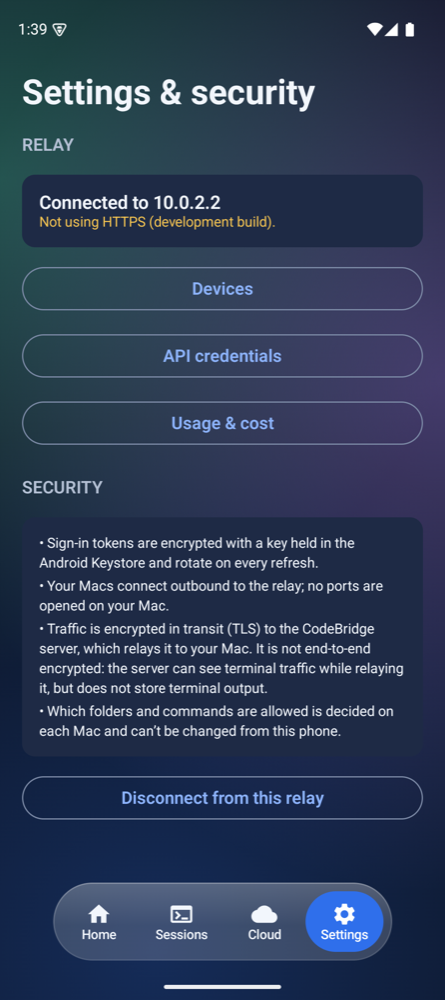
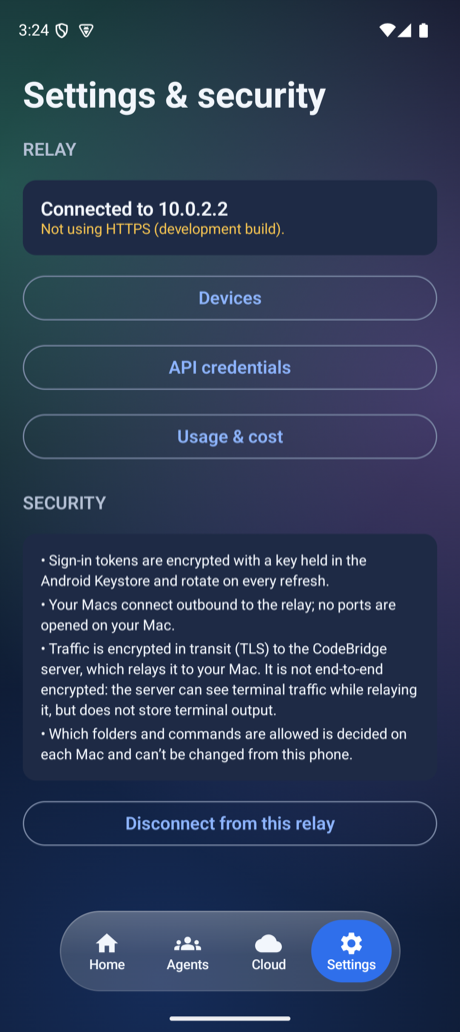
README: document the new features, drop what is no longer true
Adds Agents, approvals, chat images, Continue, folders and external drives, a how-to table, the full list of owner switches, and the new Claude Code permission flow. Retakes the Home and Settings screenshots (they showed the old Sessions tab), adds the Continue screenshot, and removes unused welcome screenshots. Corrects 'your code never leaves your computer' to say what the phone does receive, and moves the external-drive section out of 'Under the hood'.

diff --git a/README.md b/README.md
@@ -13,10 +13,10 @@ No account. No server to rent. Scan a QR code and you're connected.
 
 <br />
 
-<img src="docs/screenshots/ios-welcome.png" width="23%" alt="iOS welcome screen" />
-<img src="docs/screenshots/ios-home.png" width="23%" alt="iOS home with a computer online" />
-<img src="docs/screenshots/android-welcome-dark.png" width="23%" alt="Android welcome screen, dark" />
-<img src="docs/screenshots/android-home-dark.png" width="23%" alt="Android home with a computer online, dark" />
+<img src="docs/screenshots/ios-agents.png" width="23%" alt="iOS Agents tab showing which Claude Code sessions need you" />
+<img src="docs/screenshots/ios-approve.png" width="23%" alt="iOS approval card with the exact command" />
+<img src="docs/screenshots/ios-chat.png" width="23%" alt="iOS chat with a file edit shown as red and green lines" />
+<img src="docs/screenshots/android-agents-dark.png" width="23%" alt="Android Agents tab, dark" />
 
 </div>
 
@@ -24,11 +24,15 @@ No account. No server to rent. Scan a QR code and you're connected.
 
 ## What it is
 
-CodeBridge puts a terminal, git and **Claude Code** for your own computer in your pocket. Start a session on your Mac or Windows PC, watch the output live, approve risky commands from your phone, and walk away.
+CodeBridge puts **Claude Code**, a terminal and git for your own computer in your pocket. Start a session on your Mac or Windows PC, watch it work, approve the commands it asks about, and walk away.
 
-- **Your code never leaves your computer.** Commands run on your machine, inside folders you approved on that machine. Optional cloud sessions run in an isolated Anthropic sandbox and are always labelled as such.
-- **You run your own relay.** There is nothing for anyone to host for you and no account to create. The QR code your relay shows is the whole sign-in.
-- **Run several agents.** The Agents tab shows every session, which need you, and lets you approve, cancel or start more.
+- **Several agents at once.** The **Agents** tab shows every Claude Code session across your computers, which ones need you, and lets you cancel, stop or start more. Subagents Claude starts show as their own cards.
+- **Approve from your phone.** Anything Claude Code is not allowed to run on its own appears as an **Approve / Reject** card with the exact command. Nothing runs until you tap Approve.
+- **A real Claude Code chat.** Replies, tool calls, file edits as red and green lines, and screenshots from your project all show in the conversation.
+- **Pick up where you left off.** **Continue** lists the Claude Code conversations already saved on your computer, including ones you started in a terminal, and resumes one from the phone, in place or as a copy.
+- **Any project, even on an external drive.** Add an existing folder, start a new one, or choose where new projects go.
+- **Your code stays on your computer.** Commands run on your machine, inside folders you approved there. Your phone only receives what you ask to see: output, diffs and images, sent through your own relay. Optional cloud sessions run in an isolated Anthropic sandbox and are always labelled.
+- **No account, no server to rent.** You run your own relay, and the QR code it shows is the whole sign-in.
 - **Your Claude plan works.** Claude Code runs on your computer with its own login, so sessions use your own Claude subscription. CodeBridge never sees that login.
 
 ## Get started
@@ -37,7 +41,7 @@ You need three things: a relay (the small program that links phone and computer)
 
 ### 1. Start your relay and connect your computer
 
-On the computer you want to control (Node.js 22+):
+On the computer you want to control (Node.js 22+, and Claude Code installed if you want Claude sessions):
 
 ```bash
 npx -y codebridge-relay start --tunnel cloudflare --with-agent
@@ -49,7 +53,12 @@ This starts the relay, opens a free secure public address through Cloudflare (in
 npx -y codebridge-relay fly --with-agent
 ```
 
-The app has a **Set up a relay** screen with both commands, a Copy button and a _Send to my computer_ button.
+The app has a **Set up a relay** screen with both commands, a Copy button and a _Send to my computer_ button. To keep the agent running after you close the terminal, install it and start it at login:
+
+```bash
+npm install -g codebridge-agent
+codebridge-agent service install        # LaunchAgent on macOS, scheduled task on Windows
+```
 
 ### 2. Install the app and scan
 
@@ -66,13 +75,19 @@ The app has a **Set up a relay** screen with both commands, a Copy button and a 
 
 Open the app, tap **Scan QR code**, scan the code from step 1, confirm the relay, done. Your computer shows up as **Online**.
 
-### 3. Run a session
+### 3. Work from your phone
 
-Choose your computer, then tap **Add existing folder** to browse your computer's home folder and pick a project that is already there, or tap **New project** to start a fresh one (a new folder on your computer, optionally with `git init`), then start a terminal or Claude Code session. Add more computers any time from **Add a computer**.
+| To do this                           | Do this                                                                                                                     |
+| ------------------------------------ | --------------------------------------------------------------------------------------------------------------------------- |
+| Start Claude Code on a project       | Home → your computer → a project → **New session** → _Claude Code_                                                          |
+| Pick up an earlier conversation      | On a project, tap **Continue**, choose a conversation, then _Continue_ or _Continue as a copy_                              |
+| Work on a folder that already exists | Your computer → **Add existing folder**, browse and choose **Use this folder**                                              |
+| Start a brand-new project            | Your computer → **New project**, type a name (optionally with `git init`). **Change default folder** picks where it goes    |
+| See everything that is running       | The **Agents** tab: _Needs you_, _Working_, _Idle_. Swipe or tap to cancel a turn, stop a session, or start a **New agent** |
+| Approve a command Claude asked about | Tap **Approve** or **Reject** on the card. No answer for 10 minutes counts as Reject                                        |
+| Add another computer                 | Home → **Add a computer**                                                                                                   |
 
-**Continue** (on a project) lists the Claude Code conversations already saved on your computer, including ones you started in a terminal, and lets you pick one up from your phone, in place or as a copy that leaves the original untouched.
-
-The **Agents** tab shows every Claude Code session across your computers at a glance: which ones need your approval, which are working, and which are idle. Cancel a running turn without opening it, start another agent in any project, and see the subagents Claude starts for a task as their own cards, with the steps they took.
+Claude Code can edit files in the project on its own, and asks you about anything else. Terminal and git sessions use presets; custom commands and interactive shells are off until you turn them on (see [Settings on the computer](#settings-on-the-computer)).
 
 ## Screenshots
 
@@ -92,11 +107,11 @@ The **Agents** tab shows every Claude Code session across your computers at a gl
   </tr>
   <tr>
     <td><img src="docs/screenshots/android-setup-dark.png" width="260" alt="Android set up a relay" /></td>
-    <td><img src="docs/screenshots/android-home-light.png" width="260" alt="Android home, light" /></td>
-    <td><img src="docs/screenshots/android-settings-dark.png" width="260" alt="Android settings, dark" /></td>
+    <td><img src="docs/screenshots/android-home-dark.png" width="260" alt="Android home" /></td>
+    <td><img src="docs/screenshots/android-settings-dark.png" width="260" alt="Android settings" /></td>
   </tr>
   <tr>
-    <td colspan="3" align="center"><sub><b>Android</b>: Jetpack Compose with a glass control layer, in light and dark</sub></td>
+    <td colspan="3" align="center"><sub><b>Android</b>: Jetpack Compose with a glass control layer</sub></td>
   </tr>
 </table>
 
@@ -119,19 +134,20 @@ The **Agents** tab shows every Claude Code session across your computers at a gl
     <td align="center"><img src="docs/screenshots/ios-image.png" width="260" alt="iOS chat showing a screenshot from the project" /></td>
   </tr>
   <tr>
-    <td colspan="3" align="center"><sub>The <b>Agents</b> tab shows every Claude Code session across your computers and which ones need you. Commands Claude Code is not allowed to run on its own appear as an approval card. Subagents get their own card with the steps they took, and screenshots from your project show right in the chat.</sub></td>
+    <td colspan="3" align="center"><sub>The <b>Agents</b> tab shows every Claude Code session and which ones need you. Commands Claude Code is not allowed to run on its own appear as an approval card. Subagents get their own card with the steps they took, and screenshots from your project show right in the chat.</sub></td>
   </tr>
 </table>
 
-### Folders
+### Folders and conversations
 
 <table>
   <tr>
     <td align="center"><img src="docs/screenshots/ios-add-folder.png" width="260" alt="iOS folder picker" /></td>
-    <td align="center"><img src="docs/screenshots/android-add-folder-dark.png" width="260" alt="Android folder picker, dark" /></td>
+    <td align="center"><img src="docs/screenshots/android-add-folder-dark.png" width="260" alt="Android folder picker" /></td>
+    <td align="center"><img src="docs/screenshots/android-continue-dark.png" width="260" alt="Android list of saved Claude Code conversations to continue" /></td>
   </tr>
   <tr>
-    <td colspan="2" align="center"><sub><b>Add existing folder</b> and <b>Change default folder</b> browse your computer's home folder. Hidden and system folders are never offered.</sub></td>
+    <td colspan="3" align="center"><sub><b>Add existing folder</b> and <b>Change default folder</b> browse your computer; hidden and system folders are never offered. <b>Continue</b> lists the Claude Code conversations saved for a project.</sub></td>
   </tr>
 </table>
 
@@ -149,21 +165,58 @@ The **Agents** tab shows every Claude Code session across your computers at a gl
 1. The **agent** on your computer connects **outbound** to your relay. No ports are opened on your computer.
 2. The **relay** forwards messages between your phone and your agent. It is one small process with an embedded database, run by you.
 3. The **phone** joins by scanning the relay's QR code, which carries a random secret. That secret is stored in the iOS Keychain or Android Keystore and silently reconnects after a restart.
+4. **Claude Code** runs on the computer through the `claude` CLI. When it needs permission, the agent asks your phone and passes the answer back; each permission is one command, never "always allow".
 
 Every command is checked again on the computer against the policy you set there, so a compromised relay or phone cannot widen what is allowed.
 
 ## Safety
 
-|                  |                                                                                                                                                                                   |
-| ---------------- | --------------------------------------------------------------------------------------------------------------------------------------------------------------------------------- |
-| **Folders**      | Only registered folders are reachable. From the phone you can pick one inside your home folder (never hidden or system folders); you can switch that off. Paths are symlink-safe. |
-| **Commands**     | Phone commands are limited to presets unless you turn on custom commands. Risky programs need approval on the phone, and some (`sudo`, `diskpart`, `reg`, …) never run.           |
-| **Shells**       | Interactive shells are off until you enable them on the computer.                                                                                                                 |
-| **Secrets**      | Stored in the OS credential store (Keychain, Credential Manager, Android Keystore). Child processes get a minimal environment.                                                    |
-| **Relay link**   | The QR code is a password: it gives full control of every computer on that relay. Don't share a screenshot of it.                                                                 |
-| **Confirmation** | Opening a connect link asks you to confirm the relay before anything is sent to it.                                                                                               |
+|                   |                                                                                                                                                                                                                 |
+| ----------------- | --------------------------------------------------------------------------------------------------------------------------------------------------------------------------------------------------------------- |
+| **Folders**       | Only registered folders are reachable. From the phone you can pick one inside your home folder, or inside a place you added on the computer; never hidden or system folders. Paths are symlink-safe.            |
+| **Claude Code**   | Edits inside the project go through; anything else needs your **Approve** on the phone. `sudo`, `dd`, `shutdown` and the like are refused without asking, and `rm`, `curl` and `git push` are marked high risk. |
+| **Commands**      | Terminal commands from the phone are limited to presets unless you turn on custom commands. Some programs (`sudo`, `diskpart`, `reg`, …) never run.                                                             |
+| **Shells**        | Interactive shells are off until you enable them on the computer.                                                                                                                                               |
+| **Images**        | Only png, jpg, gif and webp files inside the project, up to 6 MB, are sent to the phone. SVG is never served, and secret-looking files are refused.                                                             |
+| **Conversations** | Only the saved conversations for that exact project can be listed or resumed. The phone gets text only, with secrets redacted.                                                                                  |
+| **Secrets**       | Stored in the OS credential store (Keychain, Credential Manager, Android Keystore). Child processes get a minimal environment.                                                                                  |
+| **Relay link**    | The QR code is a password: it gives full control of every computer on that relay. Don't share a screenshot of it.                                                                                               |
+| **Confirmation**  | Opening a connect link asks you to confirm the relay before anything is sent to it.                                                                                                                             |
 
 Read [docs/SECURITY.md](docs/SECURITY.md) for the full threat model.
+
+### Settings on the computer
+
+The owner decides what the phone may do, on the computer. Nothing here can be changed from the phone.
+
+```bash
+codebridge-agent status                                   # show pairing, projects and every setting below
+codebridge-agent policy set <name> <true|false>           # change a switch
+codebridge-agent policy set projectsRoot <dir>            # where new projects are created
+codebridge-agent policy add-root <dir>                    # let the phone browse another place, such as an external drive
+codebridge-agent policy remove-root <dir>
+codebridge-agent workspace add <dir>                      # register a project folder from the computer
+```
+
+| Switch                     | Default | What it controls                                                    |
+| -------------------------- | ------- | ------------------------------------------------------------------- |
+| `allowClaudeCode`          | on      | Claude Code sessions, and listing or continuing saved conversations |
+| `allowClaudeCodeEdits`     | on      | Claude Code changes files in the project without asking             |
+| `allowClaudeCodeApprovals` | on      | Ask on the phone about anything else, instead of declining it       |
+| `allowWorkspaceCreation`   | on      | **New project** and choosing the default project folder             |
+| `allowFolderBrowse`        | on      | **Add existing folder** and browsing your computer from the phone   |
+| `allowCustomCommands`      | off     | Custom terminal commands, beyond the presets                        |
+| `allowInteractiveShell`    | off     | A login shell, which is equivalent to full shell access             |
+
+#### Projects on an external drive
+
+By default the phone browses your home folder. To reach projects on another drive, add its location on the computer:
+
+```bash
+codebridge-agent policy add-root /Volumes/SSD/Code      # macOS; on Windows: D:\Code
+```
+
+The drive then appears at the top of **Add existing folder**. The same rules apply inside it, and the drive itself can't be added as a project, only a folder inside it. An unplugged drive is skipped.
 
 ## Platforms
 
@@ -173,6 +226,8 @@ Read [docs/SECURITY.md](docs/SECURITY.md) for the full threat model.
 | **Relay**       | Any computer with Node.js 22+, Docker, or Fly.io | `codebridge-relay`, or the container image. Embedded Postgres, no database server.                                       |
 | **iOS app**     | iOS 26+                                          | SwiftUI, Liquid Glass, VisionKit QR scanning.                                                                            |
 | **Android app** | Android 9+ (API 28)                              | Jetpack Compose, Keystore-encrypted secrets, Google code scanner.                                                        |
+
+Update the agent and relay together (`npm install -g codebridge-agent@latest codebridge-relay@latest`): newer app features, such as subagents and images, need both.
 
 ### iOS installation
 
@@ -205,17 +260,6 @@ packages/
 docs/           ARCHITECTURE, SECURITY, API, DEVELOPMENT, DEPLOYMENT, PLAN
 infra/          relay.Dockerfile, docker-compose.yml
 ```
-
-### Projects on an external drive
-
-By default the phone browses your home folder. To reach projects on another drive, add its location **on the computer** (the phone can't change this):
-
-```bash
-codebridge-agent policy add-root /Volumes/SSD/Code      # macOS; on Windows: D:\Code
-codebridge-agent policy remove-root /Volumes/SSD/Code
-```
-
-The drive then appears at the top of **Add existing folder**. Hidden and system folders are still never offered.
 
 ### Run from source
 
